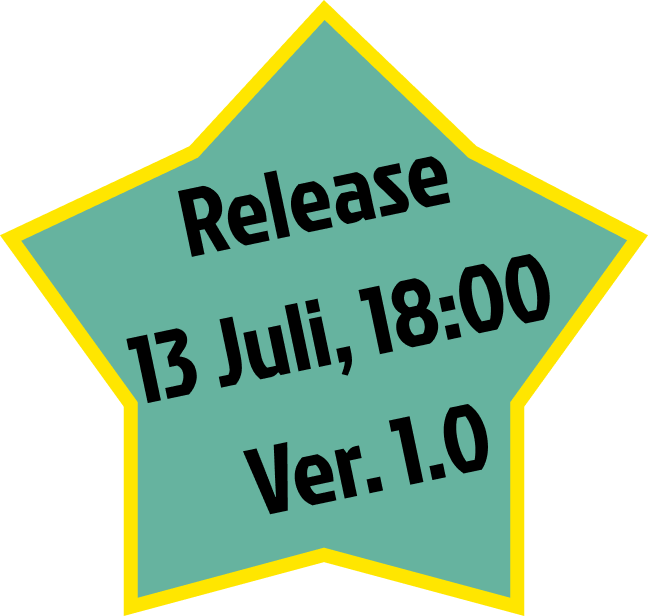
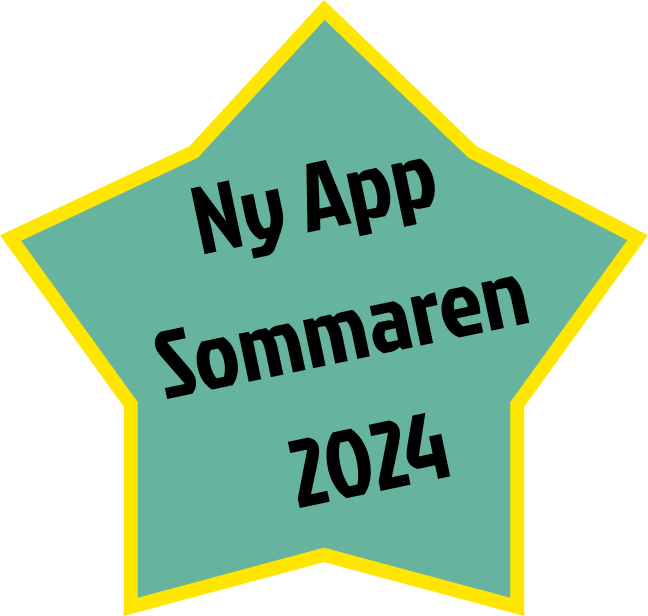
Update navigation links in about-us, contact-us, and privacyPolicy pages

Changed region(s): [[0.1852, 0.401, 0.8642, 0.6786], [0.2778, 0.2468, 0.7099, 0.4318], [0.3704, 0.6477, 0.7716, 0.8328]]

diff --git a/index.html b/index.html
@@ -4,10 +4,10 @@
 <head>
     <meta charset="UTF-8" />
     <meta name="viewport" content="width=device-width, initial-scale=1.0" />
-    <title>Hitch app</title>
-    <meta property="og:title" content="Hitch app" />
+    <title>Hitch App</title>
+    <meta property="og:title" content="Hitch App" />
     <meta property="og:description" content="Hitcha dit du ska!" />
-    <meta property="og:image" content="https://hitchapp.se/res/Logo.png" />
+    <meta property="og:image" content="https://hitchapp.se/res/Logo3.png" />
     <meta property="og:url" content="https://hitchapp.se" />
     <meta property="og:type" content="website" />
     <meta name="twitter:card" content="summary_large_image" />
@@ -50,6 +50,7 @@
                 <li nav-item><a href="index.html">Hem</a></li>
                 <li nav-item><a href="about-us.html">Om oss</a></li>
                 <li nav-item><a href="privacypolicy.html">Integritetspolicy</a></li>
+                <li nav-item><a href="https://hitch-e4a25.firebaseapp.com/">Web-App (Sök)</a></li>
                 <li nav-item><a href="contact-us.html">Kontakta Oss</a></li>
                 <!-- <li nav-item><a href="trip-page.html">Resa</a></li> -->
             </ul>
@@ -94,47 +95,8 @@
         <ul>
             <li><a href="https://appdistribution.firebase.dev/i/11c3d5d47acc6f21">Ladda ner för Android via Firebase App Distribution</a></li>
             <li><a href="https://testflight.apple.com/join/wrB8RKBd" target="_blank" rel="noopener noreferrer">Ladda ner för iPhone via TestFlight</a></li>            
-        </ul>
-        <!-- <form id="form-handler" action="" method="post" class="beta-signup">
-                <div class="beta-signup">
-                    <label for="firstname">Förnamn: </label>
-                    <input type="text" name="firstname" id="firstname" required />
-                </div>
-                <div class="beta-signup">
-                    <label for="surname">Efternamn: </label>
-                    <input type="text" name="surname" id="surname" required />
-                </div>
-                <div class="beta-signup">
-                    <label for="email-input"> E-mail: </label>
-                    <input type="email" name="email" id="email" placeholder="somebody@hitchapp.se" required />
-                </div>
-                <div class="beta-signup">
-                    <input type="submit" value="Sign up" id="signup-button" disabled />
-                </div>
-                <div>
-                   -->
-        <!--    <label for="accept terms">Accept the <a id="inlineLink" href="privacyPolicy.html">Terms & Services</a></label>
-                    <label class="checkbox">
-                        <input id="termsCheckbox" type="checkbox" />
-                        <span></span>
-                    </label>
-                    
-                
-                </div>
-            </form>
-
-            <em
-                ><b><a href="privacyPolicy.html">Privacy Policy & Terms of Service</a></b></em
-            >
-            <br /> -->
-        <!--             <div>
-                <p>Gmail API Quickstart</p>
-
-                <button id="authorize_button" onclick="handleAuthClick()">Authorize</button>
-                <button id="signout_button" onclick="handleSignoutClick()">Sign Out</button>
-
-                <pre id="content" style="white-space: pre-wrap"></pre>
-            </div> -->
+        </ul>  
+      
     </main>
     <footer>
         <br />

diff --git a/trip-page.html b/trip-page.html
@@ -5,9 +5,9 @@
     <meta charset="UTF-8" />
     <meta name="viewport" content="width=device-width, initial-scale=1.0" />
     <title>Hitch App - Trip</title>
-    <meta property="og:title" content="Hitch app" />
+    <meta property="og:title" content="Hitch App - Trip" />
     <meta property="og:description" content="Hitcha dit du ska!" />
-    <meta property="og:image" content="https://hitchapp.se/res/Logo.png" />
+    <meta property="og:image" content="https://hitchapp.se/res/Logo3.png" />
     <meta property="og:url" content="https://hitchapp.se" />
     <meta property="og:type" content="website" />
     <meta name="twitter:card" content="summary_large_image" />
@@ -38,6 +38,7 @@
                 <li nav-item><a href="index.html">Hem</a></li>
                 <li nav-item><a href="about-us.html">Om oss</a></li>
                 <li nav-item><a href="privacypolicy.html">Integritetspolicy</a></li>
+                <li nav-item><a href="https://hitch-e4a25.firebaseapp.com/">Web-App (Sök)</a></li>
                 <li nav-item><a href="contact-us.html">Kontakta Oss</a></li>
                 <li nav-item><a href="trip-page.html">Resa</a></li>
             </ul>

diff --git a/about-us.html b/about-us.html
@@ -19,7 +19,9 @@
                 <li nav-item><a href="index.html">Hem</a></li>
                 <li nav-item><a href="about-us.html">Om oss</a></li>
                 <li nav-item><a href="privacypolicy.html">Integritetspolicy</a></li>
+                <li nav-item><a href="https://hitch-e4a25.firebaseapp.com/">Web-App (Sök)</a></li>
                 <li nav-item><a href="contact-us.html">Kontakta Oss</a></li>
+                <!-- <li nav-item><a href="trip-page.html">Resa</a></li> -->
             </ul>
             <div class="hamburger">
                 <span class="bar"></span>

diff --git a/contact-us.html b/contact-us.html
@@ -19,7 +19,9 @@
                 <li nav-item><a href="index.html">Hem</a></li>
                 <li nav-item><a href="about-us.html">Om oss</a></li>
                 <li nav-item><a href="privacypolicy.html">Integritetspolicy</a></li>
+                <li nav-item><a href="https://hitch-e4a25.firebaseapp.com/">Web-App (Sök)</a></li>
                 <li nav-item><a href="contact-us.html">Kontakta Oss</a></li>
+                <!-- <li nav-item><a href="trip-page.html">Resa</a></li> -->
             </ul>
             <div class="hamburger">
                 <span class="bar"></span>

diff --git a/privacyPolicy.html b/privacyPolicy.html
@@ -21,7 +21,9 @@
                 <li nav-item><a href="index.html">Hem</a></li>
                 <li nav-item><a href="about-us.html">Om oss</a></li>
                 <li nav-item><a href="privacypolicy.html">Integritetspolicy</a></li>
+                <li nav-item><a href="https://hitch-e4a25.firebaseapp.com/">Web-App (Sök)</a></li>
                 <li nav-item><a href="contact-us.html">Kontakta Oss</a></li>
+                <!-- <li nav-item><a href="trip-page.html">Resa</a></li> -->
             </ul>
             <div class="hamburger">
                 <span class="bar"></span>
